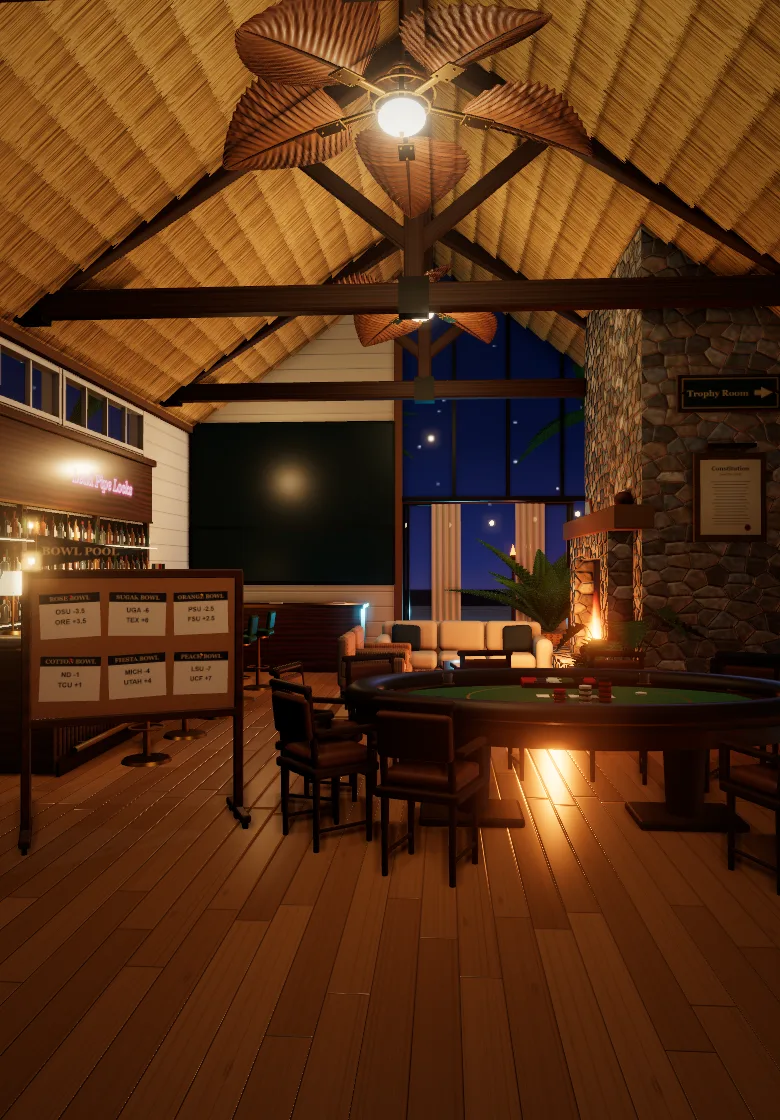
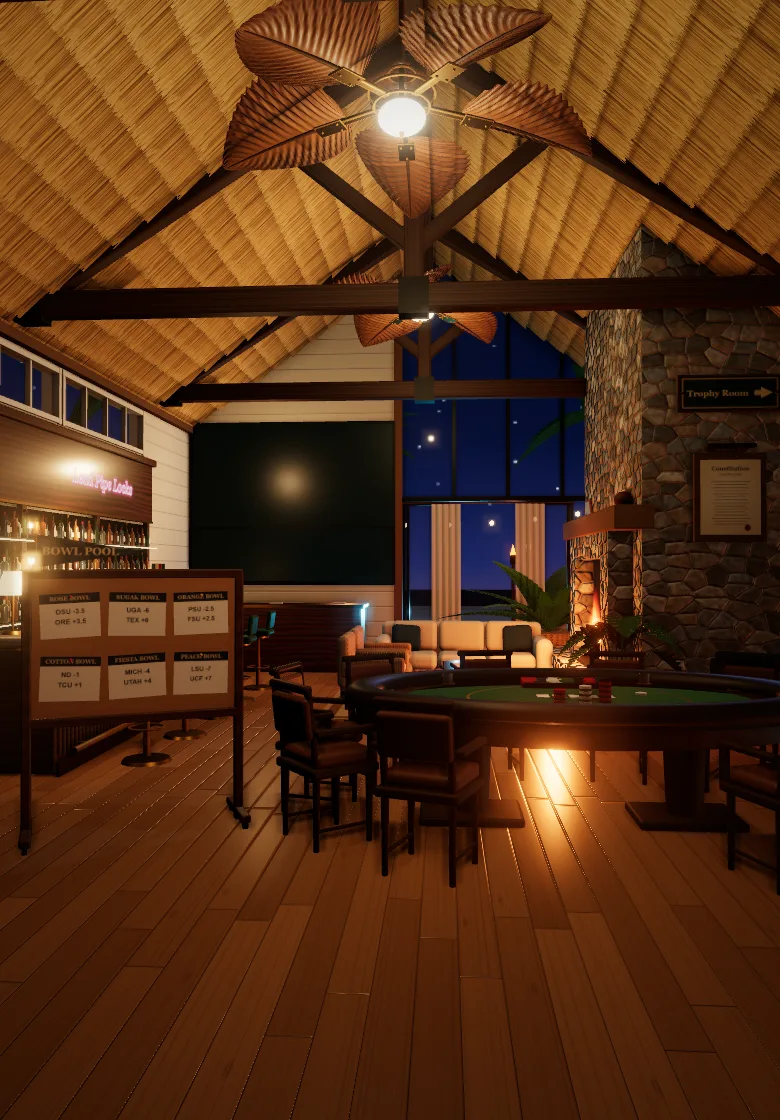
Lab clubhouse: potted palm leaves arch like a real palm

Changed region(s): [[0.6154, 0.4688, 0.8923, 0.5938]]

diff --git a/tools/clubhouse-room/room.js b/tools/clubhouse-room/room.js
@@ -127,6 +127,7 @@ export async function buildRoom(q) {
   // every leaf in and around the room is grown from the one modelled frond
   const leafGreen = new THREE.MeshStandardMaterial({ color: 0x3f8a48, roughness: 0.55, side: THREE.DoubleSide }), leafDeep = new THREE.MeshStandardMaterial({ color: 0x2a6a36, roughness: 0.38, side: THREE.DoubleSide });
   const palmLeaf = frond({ L: 1.3, HW: 0.21, pleats: 30, droop: 0.55, keel: 0.5, depth: 0.01, scallop: 0.1, shape: 0.6, NU: 240, NV: 64 });
+  const pottedLeaf = frond({ L: 1.3, HW: 0.17, pleats: 16, droop: 0.6, keel: 0.35, depth: 0.004, scallop: 0.04, shape: 0.6, NU: 200, NV: 48 });   // softer pleats: read as leaflets, not blocks
   const broadLeaf = frond({ L: 0.46, HW: 0.21, pleats: 7, droop: 0.07, keel: 0.22, depth: 0.004, scallop: 0.2, shape: 0.5, NU: 90, NV: 40 });
   const spray = (parent, geometry, material, [x, y, z], count, size, lift) => {
     for (let f = 0; f < count; f++) {
@@ -547,7 +548,7 @@ export async function buildRoom(q) {
   const plant = (x, z, s = 1) => {
     add(room, cyl(0.3 * s, 0.24 * s, 0.5 * s, 24), rattan, [x, 0.25 * s, z]);
     add(room, cyl(0.27 * s, 0.27 * s, 0.02, 20), std(0x3a2a1c, { roughness: 1 }), [x, 0.49 * s, z], { cast: false });
-    spray(room, palmLeaf, leafGreen, [x, 0.5 * s, z], 7, s * 0.95, [0.7, 1.0]); spray(room, palmLeaf, leafGreen, [x, 0.5 * s, z], 6, s * 1.1, [1.05, 1.4]);
+    spray(room, pottedLeaf, leafGreen, [x, 0.5 * s, z], 7, s * 0.95, [0.45, 0.8]); spray(room, pottedLeaf, leafGreen, [x, 0.5 * s, z], 5, s * 1.1, [0.85, 1.15]);   // arching, as a kentia palm grows
   };
   const monstera = (x, z, s = 1) => {
     add(room, cyl(0.28 * s, 0.22 * s, 0.46 * s, 24), std(0xf1ece2, { roughness: 0.5 }), [x, 0.23 * s, z]);

diff --git a/docs/DECISION_LOG.md b/docs/DECISION_LOG.md
@@ -35,7 +35,8 @@ at the front and a clerestory strip high over the bar) and the sun comes in thro
 trusses (tie beam, rafters, king post and braces, iron straps) and a ridge beam now span the room under the thatch. This
 supersedes the earlier "no beams" verdict, which was about beams in place of thatch; the thatch stays. The owner then caught the
 fans turning straight through the beams ("let's do a realism check"): the fans are now a real big-room size (about 2.9 m tip to
-tip), each hung on a downrod from the ridge beam halfway between two trusses, so every blade turns clear of the timber.
+tip), each hung on a downrod from the ridge beam halfway between two trusses, so every blade turns clear of the timber. In the same check the potted palm by the doors, whose tightly pleated upright
+leaves read as blocks up close, was given softer leaves that arch outward as a real kentia palm does.
 
 ## 2026-11-13 - The clubhouse room made convincing, and laid out to be walked through (Lab)
 
